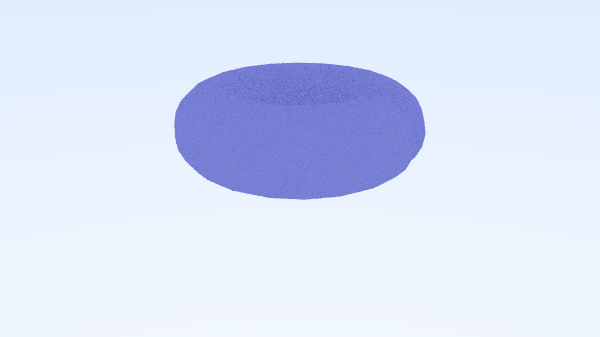
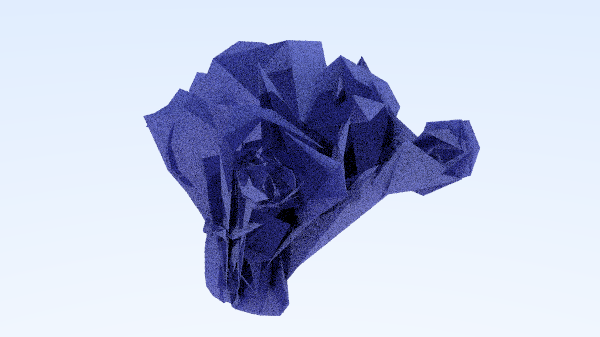
still working on rendering triangle mesh

Changed region(s): [[0.24, 0.1187, 0.81, 0.9496]]

diff --git a/Reza_Raytracer/HittableList.cpp b/Reza_Raytracer/HittableList.cpp
@@ -16,13 +16,14 @@ bool HittableList::Hit(const Ray3& r,
 					   double t_max, 
                        HitRecord& rec) const
 {
-    //HitRecord temp_rec;
+    
 
     // BVH version
-    bool hit_anything = bvhRoot->Hit(r, t_min, t_max, rec);
+    //bool hit_anything = bvhRoot->Hit(r, t_min, t_max, rec);
 
     // Brute force version
-    /*bool hit_anything = false;
+    HitRecord temp_rec;
+    bool hit_anything = false;
     auto closest_so_far = t_max; // very clever!
 
     for (const auto& object : objects) 
@@ -33,7 +34,7 @@ bool HittableList::Hit(const Ray3& r,
             closest_so_far = temp_rec.t;
             rec = temp_rec;
         }
-    }*/
+    }
 
     return hit_anything;
 }
@@ -66,9 +67,13 @@ void HittableList::CreateWorld()
     std::vector< std::vector<int>> faces;
 
     OBJReader o_reader;
-    const std::string filename = "C://Users//azer//workspace//Reza_Raytracer//objs//torus.obj";
-    double scale = 0.5;
-    Point3 offset(0, 0.3, -1);
+    /*const std::string filename = "C://Users//azer//workspace//Reza_Raytracer//objs//torus.obj";
+    double scale = 0.75;
+    Point3 offset(0, 0.3, -1);*/
+
+    const std::string filename = "C://Users//azer//workspace//Reza_Raytracer//objs//suzanne.obj";
+    double scale = 0.75;
+    Point3 offset(0, -0.7, -0.7);
 
     o_reader.ReadOBJ(filename, vertices, faces);
     for (int i = 0; i < faces.size(); i++)
